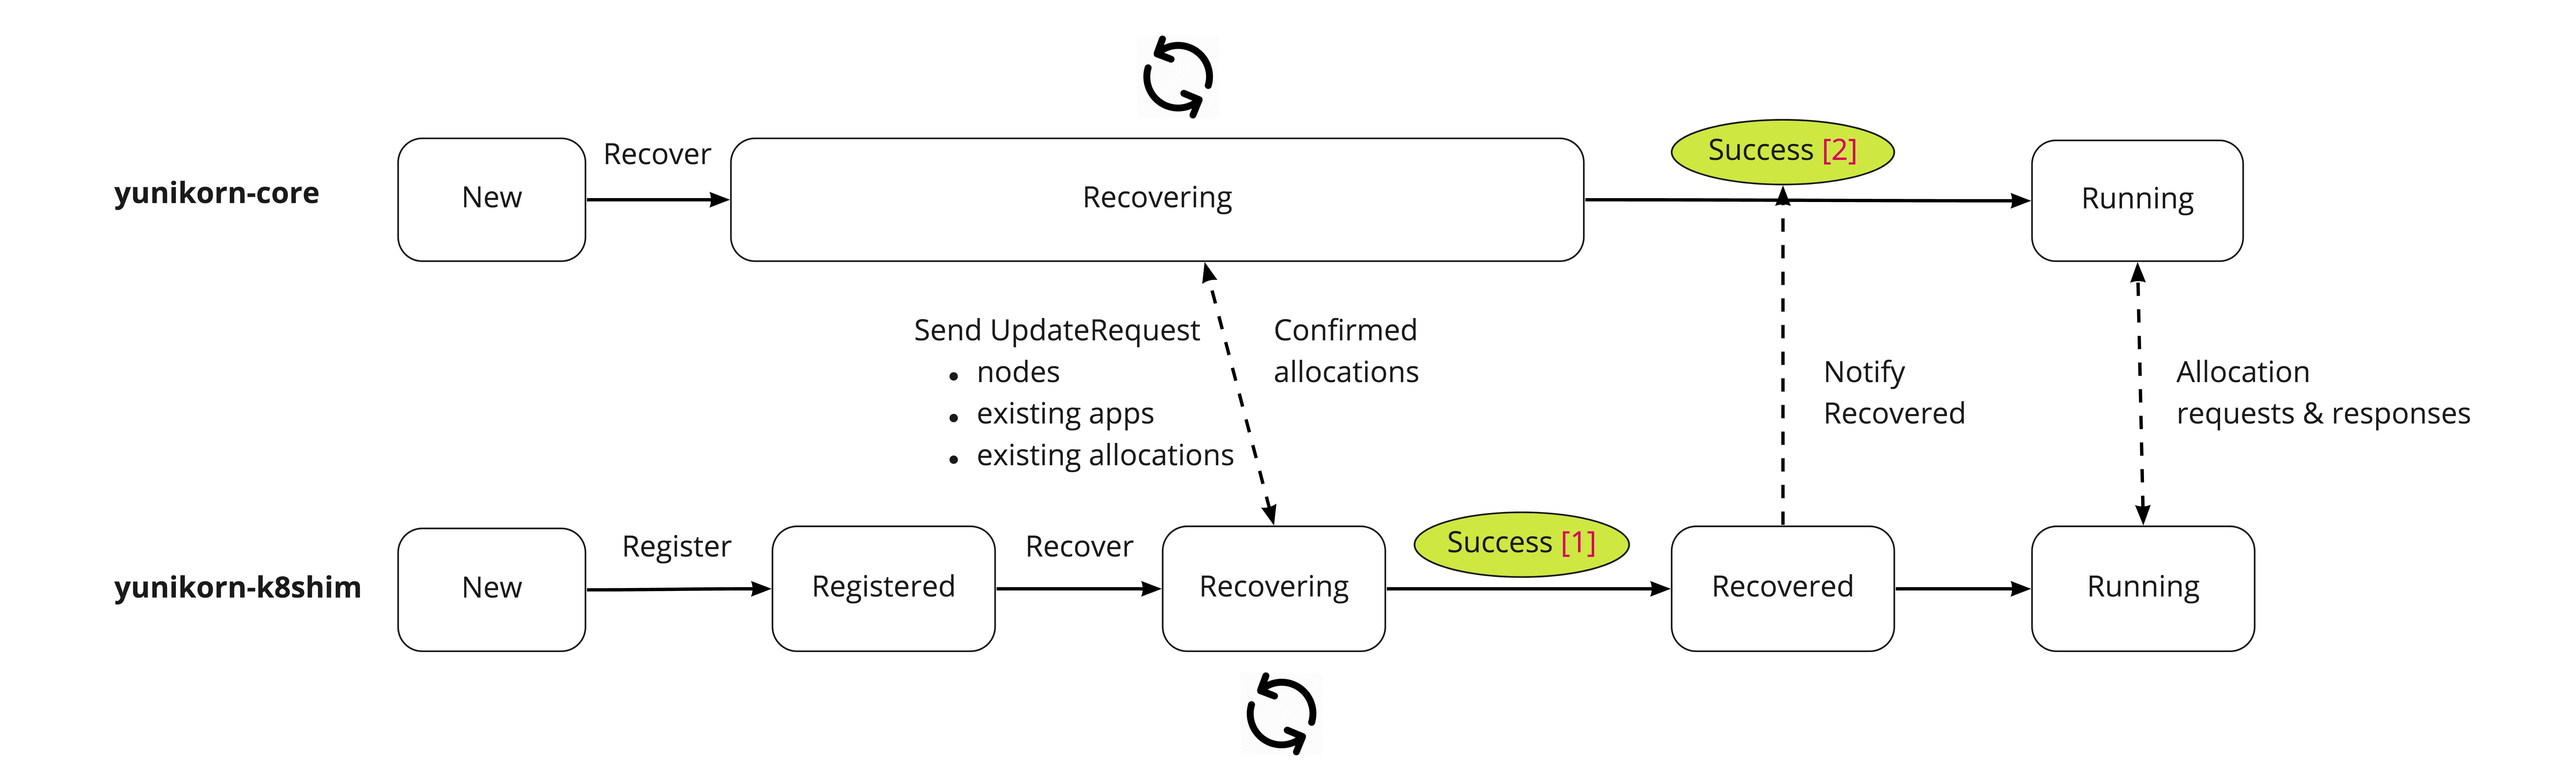
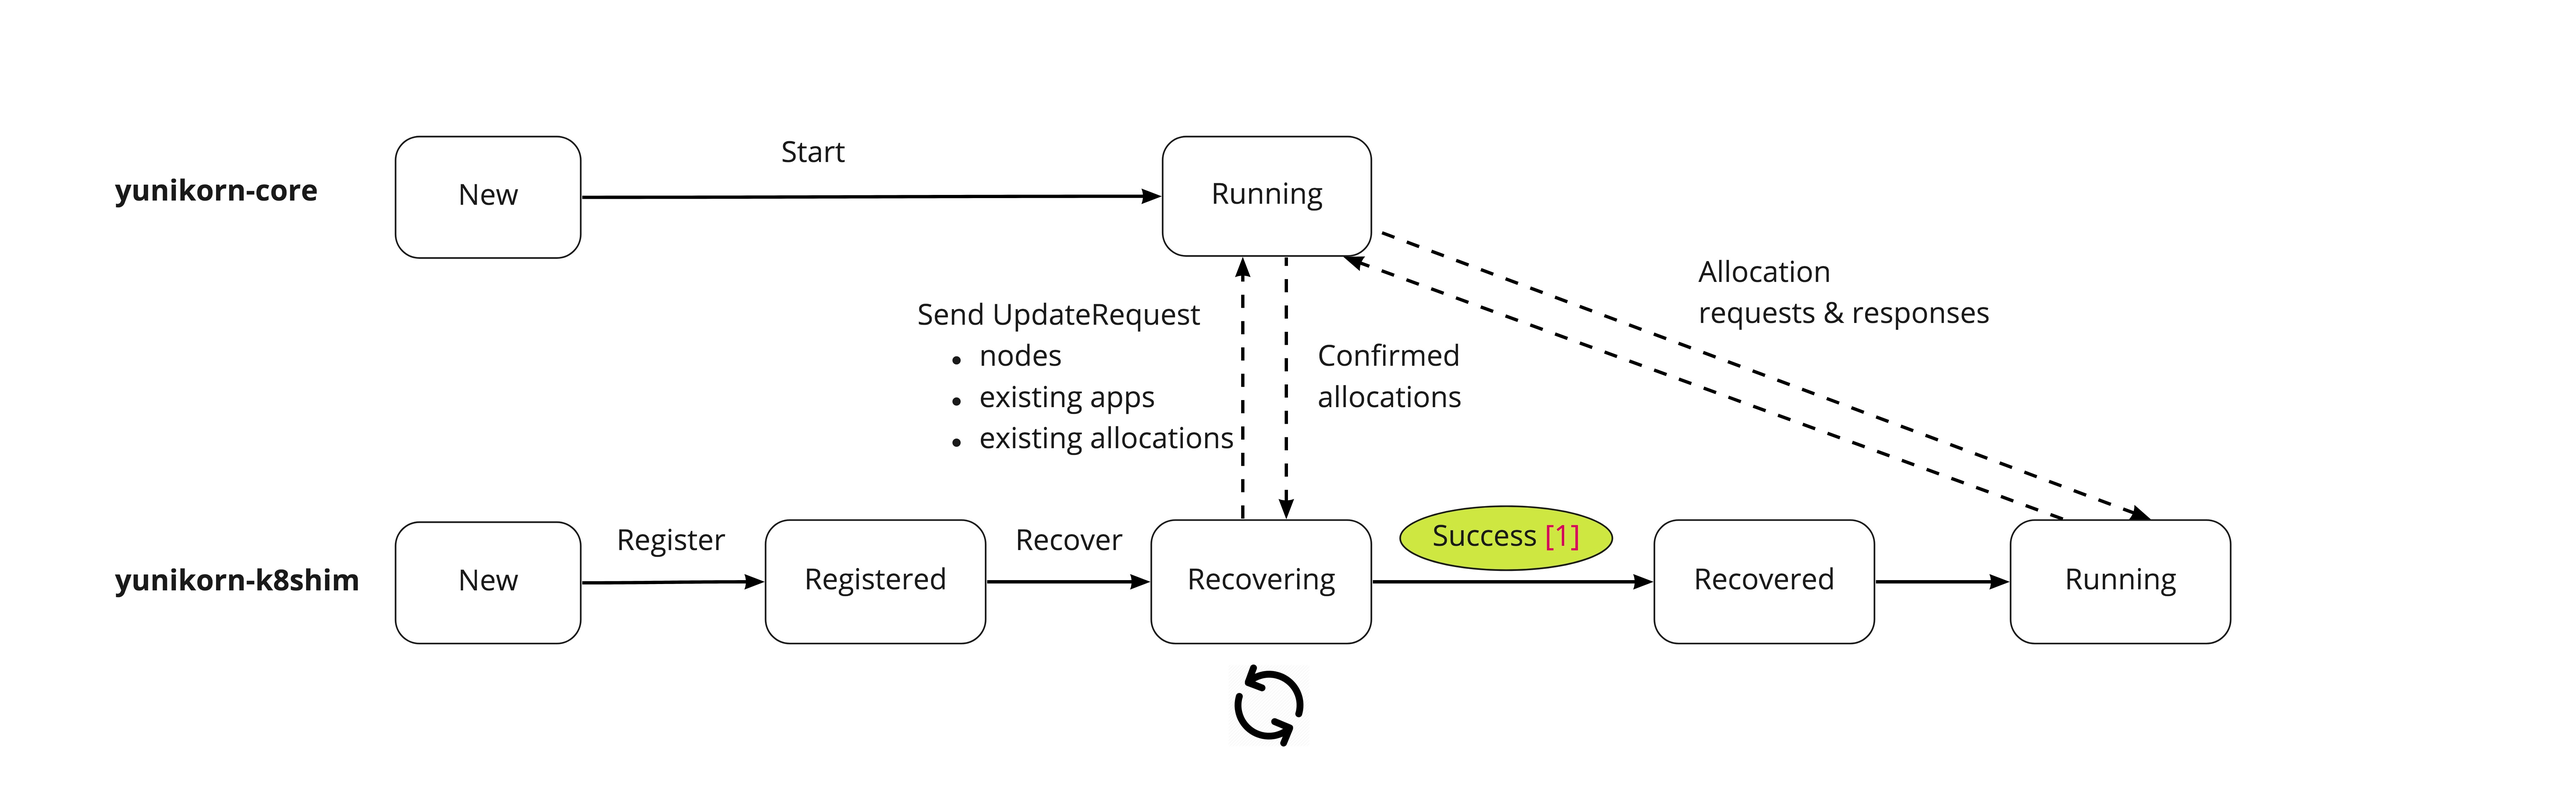
update resilience design doc

diff --git a/docs/design/resilience.md b/docs/design/resilience.md
@@ -18,16 +18,14 @@ previous states on a restart.
 
 ### Workflow
 
-Yunikorn-core state machine
-
-```
-New ---------------------------------> Running
- |                                        ^
- |    Recover                  Success    |
-  ------------> Recovering ---------------
-                    |   Fail
-                     ---------> Failed
-```
+Scheduler core has no notion of "state", which means it does not know if it is under recovering.
+It is too complex to main a series of `scheduler states` in both core and shim, because we must
+keep them in-sync. However, if we live under a simple assumption: **scheduler core only responses
+requests, the correction of requests is ensured by shim according its current state**.
+The design becomes much simpler. This way, the shim maintains a state machine like below. When
+it is under `running` state, it sends new requests to the scheduler core as long as a new one is found;
+when under `recovering` state, it collects previous allocations and send recovery messages to
+the scheduler core, and waiting for recovery to be accomplished.
 
 Shim scheduler state machine
 
@@ -46,8 +44,8 @@ Following chart illustrate how yunikorn-core and shim works together on recovery
 ![Workflow](./resilience-workflow.jpg)
 
 Restart (with recovery) process
-- start yunikorn-core and shim with option "recover"
-- yunikorn-core and shim both enter "recovering" state. Under "recovering" state, yunikorn-core doesn't handle new allocation requests, shim doesn't send new allocation requests
+- start yunikorn shim with option "recover"
+- yunikorn shim enters "recovering" state. Under "recovering" state, the shim only scans existing nodes and allocations, no new scheduling requests will be sent.
 - shim register itself with yunikorn-core
 - shim starts recovering
   - shim detects nodes added from node informer and added them to cache
@@ -62,11 +60,11 @@ Restart (with recovery) process
 - when all nodes are fully recovered, shim transits the state to "running"
 - shim notifies yunikorn-core that recovery is done, then yunikorn-core transits to "running" state.
 
-How shim determines recovery is successful [1]?
-- Shim queries K8s api-server to get how many nodes were available in this cluster. It tracks the recovering status of each node. Once all nodes are recovered, it can claim the recovery is completed.
+### How to determine recovery is complete?
 
-How scheduler-core determines recovery is successful [2]?
-- Scheduler-core has no clue about recovering progress. So it depends on shim to send notification when recovery is done (after [1])
+Shim queries K8s api-server to get how many nodes were available in this cluster. It tracks the recovering status of each node.
+Once all nodes are recovered, it can claim the recovery is completed. This approach requires us to add `recovering` and `recovered`
+states to nodes' state machine in the shim.
 
 ### Node recovery
 
@@ -81,35 +79,4 @@ Like demonstrated on upon diagram,
 - Node0 is still recovering because pod0 is recovering.
 - Node1 is recovered (become schedulable) because all pods on this node have been recovered.
 - Node2 is lost, shim lost contact with this node. If after sometime this node comes back, shim should still try to recover this node.
-
-### Scheduler State Recovery
-
-Scheduler states include 2 parts, `pkg/cache` and `pkg/scheduler`. Both need to be recovered.
-The recovery logic is a reversed order of allocation. For example, shim might send following data
-to yunikorn-core for recovery.
-
-```
-// hand written data
-UpdateRequest {
-  NewSchedulableNodes: []*NewNodeInfo {
-      NodeId:               "node-01",
-      SchedulableResource:  "{memory: 102400mb, vcore: 100}",
-      ExistingAllocations:  []*Allocation {
-        applicationId:      "app-01",
-        queueName:          "test-queue",
-        nodeId:             "node-01",
-        partitionName:      "default",
-        Resource:           "{memory: 1024mb, vcore: 10}",
-      }, {
-        applicationId:      "app-02",
-        queueName:          "test-queue",
-        nodeId:             "node-01",
-        partitionName:      "default",
-        Resource:           "{memory: 1024mb, vcore: 10}",
-      }
-    }
-  }
-}
-
-```
 
